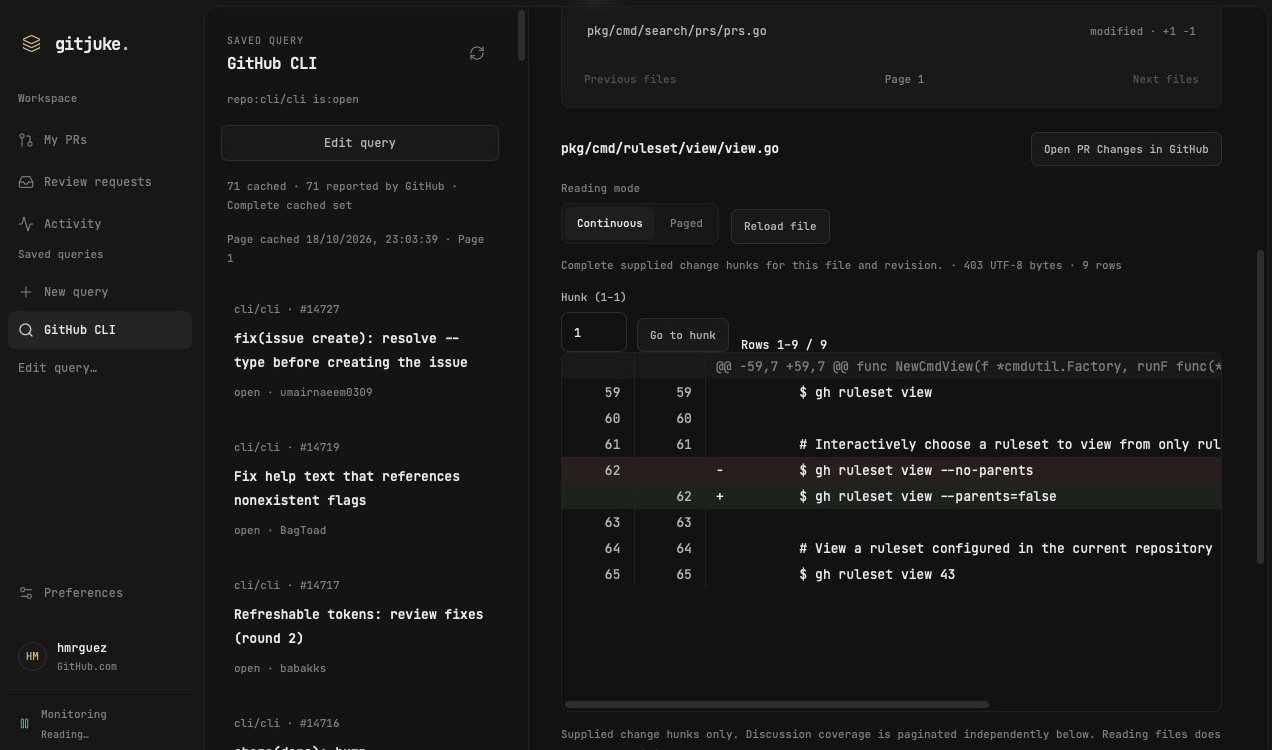
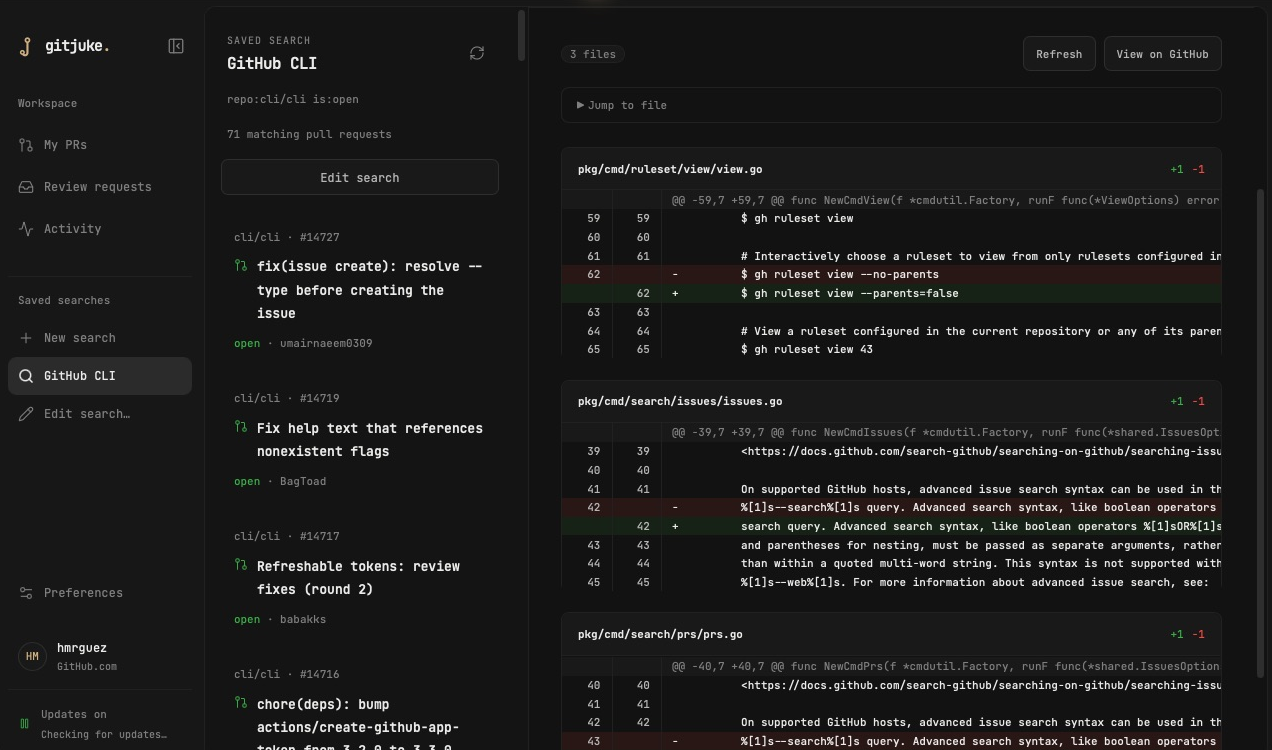
Replace stale screenshots with current simplified readers

diff --git a/docs/screenshots/README.md b/docs/screenshots/README.md
@@ -1,12 +1,12 @@
 # App screenshots
 
-Captured on 2026-10-18 from the installed native development app at `/Applications/GitJuke.app`, version 0.1.0, at 1280 × 800 in Graphite. These are actual app captures with public GitHub data, not mockups or synthetic qualification fixtures. The installed build may differ from the latest source.
+Captured on 2026-10-18 from the installed native development app at `/Applications/GitJuke.app`, version 0.1.0, at 1280 × 800 in Graphite. These are actual app captures with public GitHub data, not mockups or synthetic qualification fixtures. The installed copy was updated from `target/debug/bundle/macos/GitJuke.app` before these captures; it includes the simplified readers without hunk navigation controls.
 
 | Image | Content |
 | --- | --- |
 | [Overview](overview.png) | A saved search for `repo:cli/cli is:open`, with [cli/cli#14727](https://github.com/cli/cli/pull/14727) selected and its real description visible |
-| [Changes](changes.png) | The same search, with [cli/cli#14719](https://github.com/cli/cli/pull/14719) selected and the supplied diff for `pkg/cmd/ruleset/view/view.go` visible |
+| [Changes](changes.png) | The same search, with [cli/cli#14719](https://github.com/cli/cli/pull/14719) selected and the all-files diff reader visible |
 
-To reproduce, run the native app with an existing GitHub CLI login, save that public search, select the PR, and open Overview or Changes. For the diff capture, select the file and scroll the reader to the changed lines. Before each capture, move the pointer into the native title bar, outside the retained app content. PR state, search counts, and content will change over time.
+To reproduce, run the native app with an existing GitHub CLI login, save that public search, select the PR, and open Overview or Changes. For the diff capture, open Changes, wait for the real patches to load, and scroll the reader to the changed lines. Before each capture, move the pointer into the native title bar, outside the retained app content. PR state, search counts, and content will change over time.
 
 The search was created locally for these captures and remains available in the app. No GitHub content was created or modified. The visible account handle is public; the captured PRs and code are public too. The images are cropped to the app interior (1272 × 750), removing the macOS title bar, screen-sharing indicator, and rounded outer corners. The retained app content is unchanged; crops are saved as PNG to avoid further JPEG compression.
